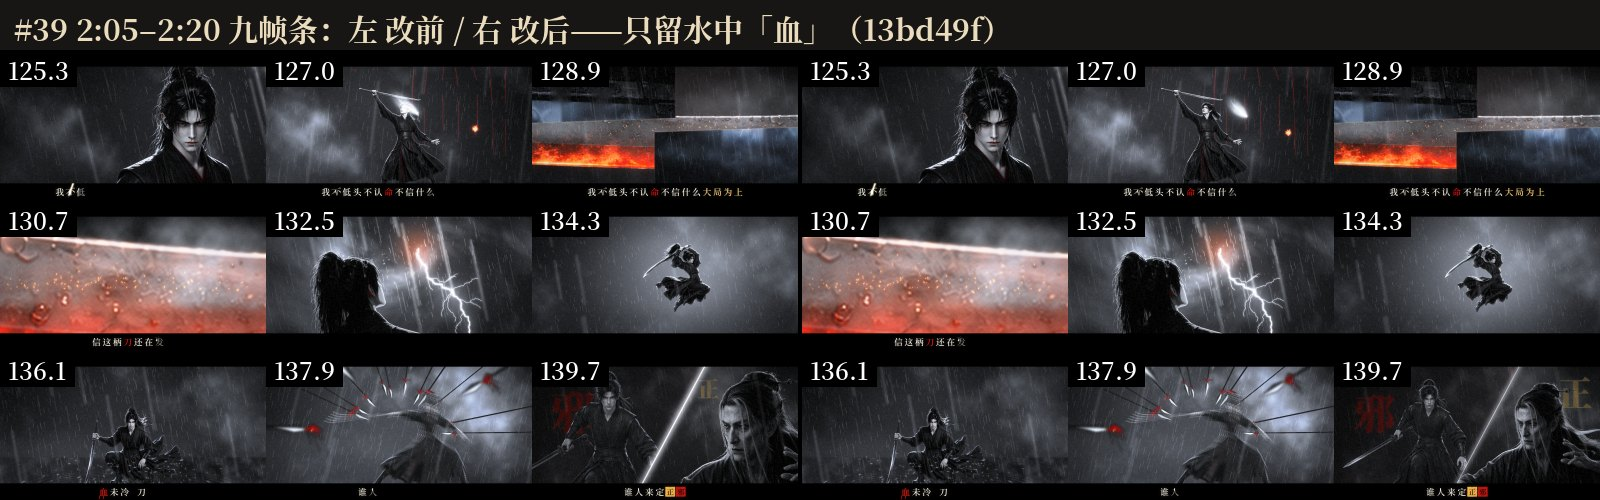
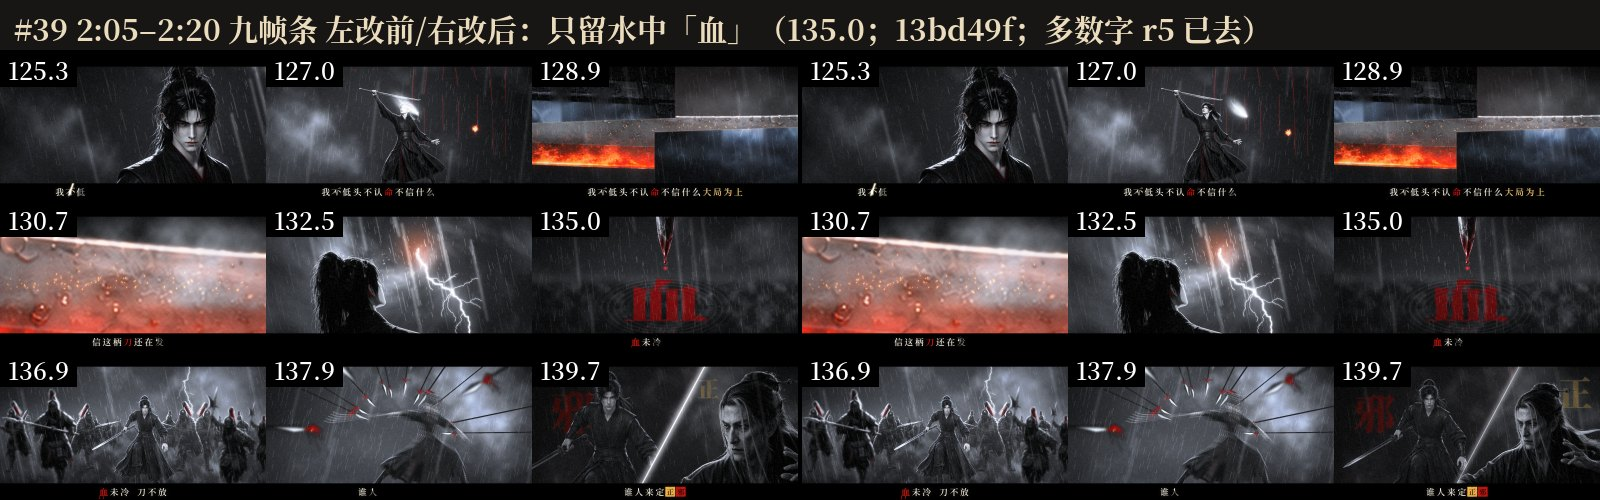
[C组 r6] C 组总对比图 C_r6_compare_1–5（#35/#39/#40/#41/#42/#43 改前改后）+ 交付单

diff --git a/crew/round6/C_r6.md b/crew/round6/C_r6.md
@@ -29,3 +29,26 @@
 - 开关 `C_R6_C39L`（默认 1）：左半幅补远景青铜天平剪影——就是 C40 要被一刀斩断的那架（同 `CP.BronzeBalance`、左盘纸人/右盘金印、同频轻摆），焦外 2.2px、大气透视压到雾色、不带底座（立柱没入下方雾里）；159.01 落雷从它背后劈到横梁照出轮廓。不加任何字（「量」仍去）。
 - 帧：158.6 / 159.05 / 159.3。
 - 自评 8：左半幅有主体且是叙事铺垫（下一镜就斩它），不抢人物；余项：天平是程序模型，雾后看不出材质细节。
+
+## C 组第六轮交付单（r6-C3 16:45 汇总；改前 = C_R6=0 即 r5 返工版，改后 = 默认）
+对比图（1600 宽，生成脚本 tools/c_r6/compare_r6c.py）：
+- out/round6/C_r6_compare_1_35_40.jpg（#35、#40）
+- out/round6/C_r6_compare_2_41.jpg（#41，含脚部局部放大）
+- out/round6/C_r6_compare_3_42.jpg（#42 C23、C28）；第二棒另有 C_r6b_compare_C23.jpg / C_r6b_compare_42_C28.jpg / C_r6b_compare_42_strip.jpg（2:22–2:28 九帧条）
+- out/round6/C_r6_compare_4_43.jpg（#43 C37 判 / C38 手 / C39 左半幅）
+- out/round6/C_r6_compare_5_39strip.jpg（#39 2:05–2:20 九帧条）
+
+| 条目 | 内容 | 提交 | 帧（秒） | 开关 | 自评 |
+|---|---|---|---|---|---|
+| #35 | C02「纲」在「本」后放线、落「提」拍；七线拴字头打结 | f6679c8 | 120.2 / 120.6 | C_R6 | 8 |
+| #39 | 2:05–2:20 只留水中「血」（字形水流扭曲、去贴纸感） | 13bd49f | 九帧条 125.3–139.7，血 135.0 | C_R6 | 8 |
+| #40 | C21 重新构图，「邪」「正」各放外侧天幕、先字后人 | 279d7cb | 139.5 / 140.3 | C_R6 | 8 |
+| #41 | C22 前半脚部特写 + 全景脚踩礁石、接触阴影、头部压暗 | 6d99b6b | 140.9 / 141.6 | C_R6_FEET | 8 |
+| #42 | C23 去铜牌倒角边 + 墙画框补砖 + 阴刻圆规/曲尺/天平 | 3e4bd6f | 142.6 / 143.0 | C_R6_NOBEVEL / C_R6_NOWALLFRAME | 8.5 |
+| #42 | C28 光只沿裂纹（去 2:27.9 纯白破口），「亮」拍 3 帧闪 | a5561d4（第二棒自动同步入库） | 147.9 | C_R6 | 8.5（第二棒自评） |
+| #43 | C37 匾心「判」全去 | a9e96b1 | 156.6 | C_R6_KEEPPAN=1 恢复 | 8 |
+| #43 | C38 握刀手换年轻手 | 1fd5f6b | 157.6 | C_R6 | 8 |
+| #43 | C39 左半幅补远景天平剪影（无字） | ace4f0d | 158.6 / 158.9 / 159.05 | C_R6_C39L | 8 |
+
+注：#35/#39/#40/#43 前三项第一棒未写自评，本棒对照改前/改后图补评。底部字幕（subtitle.py，字幕组在改）未碰；画内横排字未动。
+需用户拍板：① #41 C22 前半插一个脚部特写镜（2:20.6–2:21.3，正面低机位），是否接受新增镜头（不接受则 C_R6_FEET=0，只留全景 + 局部证明）；② C39 左半幅用的是 C40 那架天平做铺垫，是否 OK。
